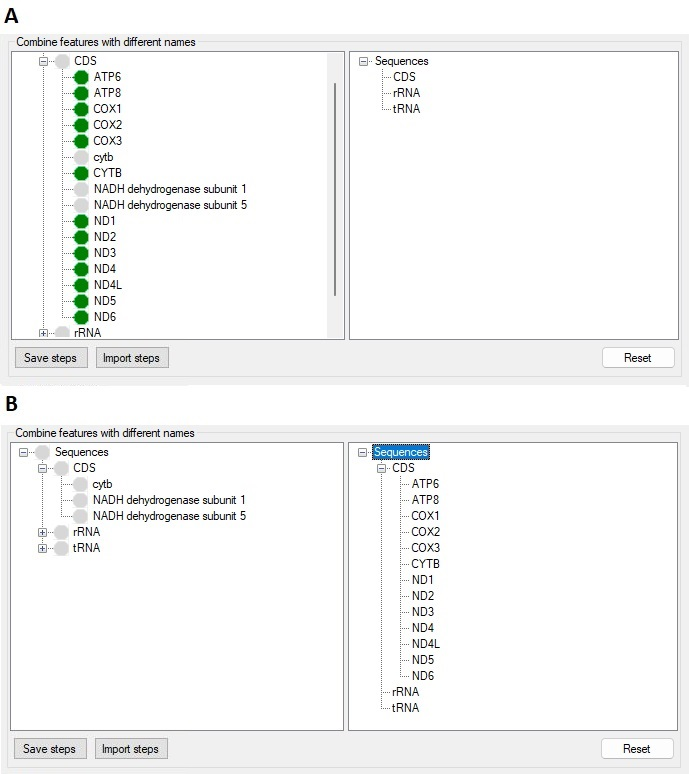
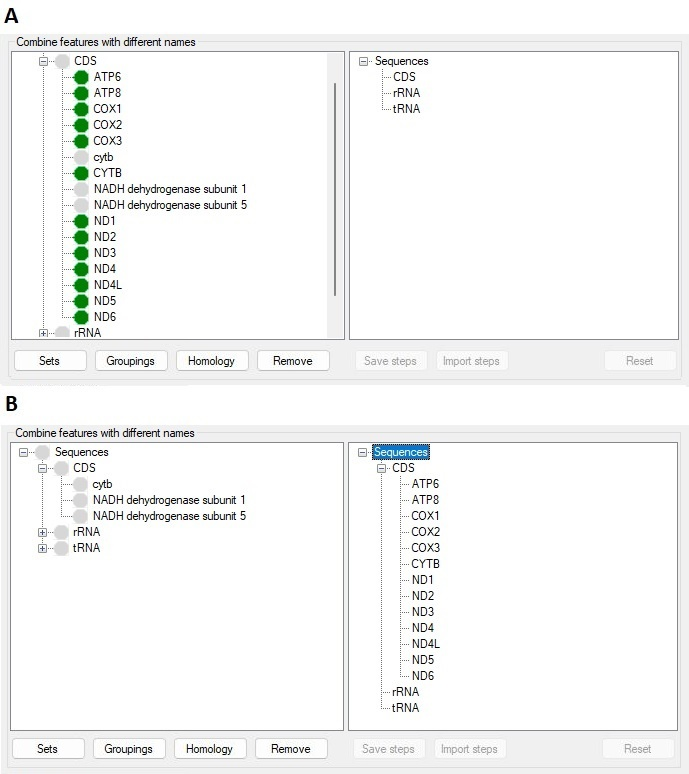
Updating

diff --git a/GeneMatrix/Form1.Designer.cs b/GeneMatrix/Form1.Designer.cs
@@ -72,6 +72,7 @@
             this.label6 = new System.Windows.Forms.Label();
             this.label5 = new System.Windows.Forms.Label();
             this.btnMakePartitionFinderFiles = new System.Windows.Forms.Button();
+            this.btnRemove = new System.Windows.Forms.Button();
             this.groupBox1.SuspendLayout();
             this.groupBox2.SuspendLayout();
             ((System.ComponentModel.ISupportInitialize)(this.splitContainer1)).BeginInit();
@@ -157,12 +158,6 @@
             this.groupBox2.Anchor = ((System.Windows.Forms.AnchorStyles)((((System.Windows.Forms.AnchorStyles.Top | System.Windows.Forms.AnchorStyles.Bottom) 
             | System.Windows.Forms.AnchorStyles.Left) 
             | System.Windows.Forms.AnchorStyles.Right)));
-            this.groupBox2.Controls.Add(this.btnGroup);
-            this.groupBox2.Controls.Add(this.btnBasicData);
-            this.groupBox2.Controls.Add(this.btnCompare);
-            this.groupBox2.Controls.Add(this.btnImportSteps);
-            this.groupBox2.Controls.Add(this.btnSaveSteps);
-            this.groupBox2.Controls.Add(this.btnReset);
             this.groupBox2.Controls.Add(this.splitContainer1);
             this.groupBox2.Location = new System.Drawing.Point(12, 110);
             this.groupBox2.Name = "groupBox2";
@@ -174,7 +169,7 @@
             // btnGroup
             // 
             this.btnGroup.Anchor = ((System.Windows.Forms.AnchorStyles)((System.Windows.Forms.AnchorStyles.Bottom | System.Windows.Forms.AnchorStyles.Left)));
-            this.btnGroup.Location = new System.Drawing.Point(90, 224);
+            this.btnGroup.Location = new System.Drawing.Point(81, 208);
             this.btnGroup.Name = "btnGroup";
             this.btnGroup.Size = new System.Drawing.Size(75, 23);
             this.btnGroup.TabIndex = 10;
@@ -185,7 +180,7 @@
             // btnBasicData
             // 
             this.btnBasicData.Anchor = ((System.Windows.Forms.AnchorStyles)((System.Windows.Forms.AnchorStyles.Bottom | System.Windows.Forms.AnchorStyles.Left)));
-            this.btnBasicData.Location = new System.Drawing.Point(9, 224);
+            this.btnBasicData.Location = new System.Drawing.Point(0, 208);
             this.btnBasicData.Name = "btnBasicData";
             this.btnBasicData.Size = new System.Drawing.Size(75, 23);
             this.btnBasicData.TabIndex = 9;
@@ -196,7 +191,7 @@
             // btnCompare
             // 
             this.btnCompare.Anchor = ((System.Windows.Forms.AnchorStyles)((System.Windows.Forms.AnchorStyles.Bottom | System.Windows.Forms.AnchorStyles.Left)));
-            this.btnCompare.Location = new System.Drawing.Point(171, 224);
+            this.btnCompare.Location = new System.Drawing.Point(162, 208);
             this.btnCompare.Name = "btnCompare";
             this.btnCompare.Size = new System.Drawing.Size(75, 23);
             this.btnCompare.TabIndex = 8;
@@ -207,7 +202,8 @@
             // btnImportSteps
             // 
             this.btnImportSteps.Anchor = ((System.Windows.Forms.AnchorStyles)((System.Windows.Forms.AnchorStyles.Bottom | System.Windows.Forms.AnchorStyles.Left)));
-            this.btnImportSteps.Location = new System.Drawing.Point(410, 224);
+            this.btnImportSteps.Enabled = false;
+            this.btnImportSteps.Location = new System.Drawing.Point(84, 208);
             this.btnImportSteps.Name = "btnImportSteps";
             this.btnImportSteps.Size = new System.Drawing.Size(75, 23);
             this.btnImportSteps.TabIndex = 7;
@@ -218,7 +214,8 @@
             // btnSaveSteps
             // 
             this.btnSaveSteps.Anchor = ((System.Windows.Forms.AnchorStyles)((System.Windows.Forms.AnchorStyles.Bottom | System.Windows.Forms.AnchorStyles.Left)));
-            this.btnSaveSteps.Location = new System.Drawing.Point(329, 224);
+            this.btnSaveSteps.Enabled = false;
+            this.btnSaveSteps.Location = new System.Drawing.Point(3, 208);
             this.btnSaveSteps.Name = "btnSaveSteps";
             this.btnSaveSteps.Size = new System.Drawing.Size(75, 23);
             this.btnSaveSteps.TabIndex = 6;
@@ -230,7 +227,7 @@
             // 
             this.btnReset.Anchor = ((System.Windows.Forms.AnchorStyles)((System.Windows.Forms.AnchorStyles.Bottom | System.Windows.Forms.AnchorStyles.Right)));
             this.btnReset.Enabled = false;
-            this.btnReset.Location = new System.Drawing.Point(593, 224);
+            this.btnReset.Location = new System.Drawing.Point(263, 208);
             this.btnReset.Name = "btnReset";
             this.btnReset.Size = new System.Drawing.Size(75, 23);
             this.btnReset.TabIndex = 5;
@@ -248,18 +245,27 @@
             // 
             // splitContainer1.Panel1
             // 
+            this.splitContainer1.Panel1.Controls.Add(this.btnRemove);
+            this.splitContainer1.Panel1.Controls.Add(this.btnCompare);
+            this.splitContainer1.Panel1.Controls.Add(this.btnGroup);
             this.splitContainer1.Panel1.Controls.Add(this.tv1);
+            this.splitContainer1.Panel1.Controls.Add(this.btnBasicData);
             // 
             // splitContainer1.Panel2
             // 
+            this.splitContainer1.Panel2.Controls.Add(this.btnReset);
+            this.splitContainer1.Panel2.Controls.Add(this.btnImportSteps);
             this.splitContainer1.Panel2.Controls.Add(this.tv2);
-            this.splitContainer1.Size = new System.Drawing.Size(668, 202);
-            this.splitContainer1.SplitterDistance = 322;
+            this.splitContainer1.Panel2.Controls.Add(this.btnSaveSteps);
+            this.splitContainer1.Size = new System.Drawing.Size(668, 234);
+            this.splitContainer1.SplitterDistance = 323;
             this.splitContainer1.TabIndex = 0;
             // 
             // tv1
             // 
-            this.tv1.Dock = System.Windows.Forms.DockStyle.Fill;
+            this.tv1.Anchor = ((System.Windows.Forms.AnchorStyles)((((System.Windows.Forms.AnchorStyles.Top | System.Windows.Forms.AnchorStyles.Bottom) 
+            | System.Windows.Forms.AnchorStyles.Left) 
+            | System.Windows.Forms.AnchorStyles.Right)));
             this.tv1.Location = new System.Drawing.Point(0, 0);
             this.tv1.Name = "tv1";
             this.tv1.Size = new System.Drawing.Size(322, 202);
@@ -268,7 +274,9 @@
             // 
             // tv2
             // 
-            this.tv2.Dock = System.Windows.Forms.DockStyle.Fill;
+            this.tv2.Anchor = ((System.Windows.Forms.AnchorStyles)((((System.Windows.Forms.AnchorStyles.Top | System.Windows.Forms.AnchorStyles.Bottom) 
+            | System.Windows.Forms.AnchorStyles.Left) 
+            | System.Windows.Forms.AnchorStyles.Right)));
             this.tv2.Location = new System.Drawing.Point(0, 0);
             this.tv2.Name = "tv2";
             this.tv2.Size = new System.Drawing.Size(342, 202);
@@ -338,7 +346,7 @@
             // 
             // btnSave
             // 
-            this.btnSave.Anchor = ((System.Windows.Forms.AnchorStyles)((System.Windows.Forms.AnchorStyles.Bottom | System.Windows.Forms.AnchorStyles.Right)));
+            this.btnSave.Anchor = ((System.Windows.Forms.AnchorStyles)((System.Windows.Forms.AnchorStyles.Bottom | System.Windows.Forms.AnchorStyles.Left)));
             this.btnSave.Enabled = false;
             this.btnSave.Location = new System.Drawing.Point(593, 43);
             this.btnSave.Name = "btnSave";
@@ -416,7 +424,7 @@
             // 
             // btnAll
             // 
-            this.btnAll.Anchor = ((System.Windows.Forms.AnchorStyles)((System.Windows.Forms.AnchorStyles.Bottom | System.Windows.Forms.AnchorStyles.Right)));
+            this.btnAll.Anchor = ((System.Windows.Forms.AnchorStyles)((System.Windows.Forms.AnchorStyles.Bottom | System.Windows.Forms.AnchorStyles.Left)));
             this.btnAll.Location = new System.Drawing.Point(270, 86);
             this.btnAll.Name = "btnAll";
             this.btnAll.Size = new System.Drawing.Size(75, 23);
@@ -427,7 +435,7 @@
             // 
             // btnMAFFT
             // 
-            this.btnMAFFT.Anchor = ((System.Windows.Forms.AnchorStyles)((System.Windows.Forms.AnchorStyles.Bottom | System.Windows.Forms.AnchorStyles.Right)));
+            this.btnMAFFT.Anchor = ((System.Windows.Forms.AnchorStyles)((System.Windows.Forms.AnchorStyles.Bottom | System.Windows.Forms.AnchorStyles.Left)));
             this.btnMAFFT.Location = new System.Drawing.Point(351, 86);
             this.btnMAFFT.Name = "btnMAFFT";
             this.btnMAFFT.Size = new System.Drawing.Size(75, 23);
@@ -438,7 +446,7 @@
             // 
             // btnPrank
             // 
-            this.btnPrank.Anchor = ((System.Windows.Forms.AnchorStyles)((System.Windows.Forms.AnchorStyles.Bottom | System.Windows.Forms.AnchorStyles.Right)));
+            this.btnPrank.Anchor = ((System.Windows.Forms.AnchorStyles)((System.Windows.Forms.AnchorStyles.Bottom | System.Windows.Forms.AnchorStyles.Left)));
             this.btnPrank.Location = new System.Drawing.Point(432, 86);
             this.btnPrank.Name = "btnPrank";
             this.btnPrank.Size = new System.Drawing.Size(75, 23);
@@ -470,7 +478,7 @@
             // 
             // btnMuscle
             // 
-            this.btnMuscle.Anchor = ((System.Windows.Forms.AnchorStyles)((System.Windows.Forms.AnchorStyles.Bottom | System.Windows.Forms.AnchorStyles.Right)));
+            this.btnMuscle.Anchor = ((System.Windows.Forms.AnchorStyles)((System.Windows.Forms.AnchorStyles.Bottom | System.Windows.Forms.AnchorStyles.Left)));
             this.btnMuscle.Location = new System.Drawing.Point(513, 86);
             this.btnMuscle.Name = "btnMuscle";
             this.btnMuscle.Size = new System.Drawing.Size(75, 23);
@@ -508,7 +516,7 @@
             // 
             // btnClustalW
             // 
-            this.btnClustalW.Anchor = ((System.Windows.Forms.AnchorStyles)((System.Windows.Forms.AnchorStyles.Bottom | System.Windows.Forms.AnchorStyles.Right)));
+            this.btnClustalW.Anchor = ((System.Windows.Forms.AnchorStyles)((System.Windows.Forms.AnchorStyles.Bottom | System.Windows.Forms.AnchorStyles.Left)));
             this.btnClustalW.Location = new System.Drawing.Point(593, 86);
             this.btnClustalW.Name = "btnClustalW";
             this.btnClustalW.Size = new System.Drawing.Size(75, 23);
@@ -579,6 +587,17 @@
             this.btnMakePartitionFinderFiles.Text = "Make";
             this.btnMakePartitionFinderFiles.UseVisualStyleBackColor = true;
             this.btnMakePartitionFinderFiles.Click += new System.EventHandler(this.btnMakePartitionFinderFiles_Click);
+            // 
+            // btnRemove
+            // 
+            this.btnRemove.Anchor = ((System.Windows.Forms.AnchorStyles)((System.Windows.Forms.AnchorStyles.Bottom | System.Windows.Forms.AnchorStyles.Left)));
+            this.btnRemove.Location = new System.Drawing.Point(243, 208);
+            this.btnRemove.Name = "btnRemove";
+            this.btnRemove.Size = new System.Drawing.Size(75, 23);
+            this.btnRemove.TabIndex = 11;
+            this.btnRemove.Text = "Remove";
+            this.btnRemove.UseVisualStyleBackColor = true;
+            this.btnRemove.Click += new System.EventHandler(this.btnRemove_Click);
             // 
             // Form1
             // 
@@ -659,6 +678,7 @@
         private System.Windows.Forms.Button btnCompare;
         private System.Windows.Forms.Button btnBasicData;
         private System.Windows.Forms.Button btnGroup;
+        private System.Windows.Forms.Button btnRemove;
     }
 }
 

diff --git a/GeneMatrix/comparison.cs b/GeneMatrix/comparison.cs
@@ -104,11 +104,11 @@ namespace GeneMatrix
 
         private void makeMinimumComparisonSet(Dictionary<string, List<string>> minimumSetDuplicates, int[,] scores, string fileName, Dictionary<string, List<string>> duplicates)
         {
-            Dictionary<string,int> nameIindex = new Dictionary<string,int>();
+            Dictionary<string,int> nameIndex = new Dictionary<string,int>();
             int index = 0;
             foreach (string key in sequences.Keys)
             {
-                nameIindex.Add(key, index);
+                nameIndex.Add(key, index);
                 index++;
             }          
 
@@ -118,9 +118,9 @@ namespace GeneMatrix
                 foreach(string key in name)
                 {
                     int bracket = key.IndexOf("(");
-                    string thiskey = key.Substring(0, bracket - 1);
-                    if (nameIindex.ContainsKey(thiskey)==true)
-                    { nameIindex.Remove(thiskey); }
+                    string thisKey = key.Substring(0, bracket - 1);
+                    if (nameIndex.ContainsKey(thisKey)==true)
+                    { nameIndex.Remove(thisKey); }
                 }
             }           
 
@@ -131,7 +131,7 @@ namespace GeneMatrix
                 sw = new System.IO.StreamWriter(fileName, true);
                 sw.Write("\n\nMinimum sequence set\n");
 
-                foreach (string key in nameIindex.Keys)
+                foreach (string key in nameIndex.Keys)
                 { sw.Write("\t" + key); }
                 sw.Write("\n");
 
@@ -139,17 +139,17 @@ namespace GeneMatrix
                 foreach (string key in duplicates.Keys)
                 {
                     int bracket = key.IndexOf("(");
-                    string thiskey = key.Substring(0, bracket - 1);
-                    duplicateCleanKeys.Add(thiskey, duplicates[key]);
+                    string thisKey = key.Substring(0, bracket - 1);
+                    duplicateCleanKeys.Add(thisKey, duplicates[key]);
                 }
 
-                foreach (string outerKey in nameIindex.Keys)
+                foreach (string outerKey in nameIndex.Keys)
                 {
                     sw.Write(outerKey);
-                    foreach (string innerkey in nameIindex.Keys)
+                    foreach (string innerKey in nameIndex.Keys)
                     {
-                        sw.Write("\t" + scores[nameIindex[outerKey], nameIindex[innerkey]].ToString("N0"));
-                        if (outerKey == innerkey)
+                        sw.Write("\t" + scores[nameIndex[outerKey], nameIndex[innerKey]].ToString("N0"));
+                        if (outerKey == innerKey)
                         { sw.Write("*"); }
                     }
                     if (duplicateCleanKeys.ContainsKey(outerKey) == true)
@@ -201,7 +201,7 @@ namespace GeneMatrix
                 
 
                 sw.Write("\n\nSize range\nMedian length\t" + median.ToString("N1") +
-                   "Size range\t" + sizes[0].ToString() + "\t" + sizes[sizes.GetUpperBound(0)] + "\n");
+                   "\tSize range\t" + sizes[0].ToString() + "\t" + sizes[sizes.GetUpperBound(0)] + "\n");
 
                 sw.Write("Sequence\tLength\tDifference from median length\tPercent of median length\n");
                 foreach(string key in sequences.Keys)

diff --git a/GeneMatrix/Form1.cs b/GeneMatrix/Form1.cs
@@ -76,6 +76,9 @@ namespace GeneMatrix
         private void btnImport_Click(object sender, EventArgs e)
         {
             btnReset.Enabled = false;
+            btnSaveSteps.Enabled = false;
+            btnImportSteps.Enabled = false;
+
             string empty = "";
 
             if (chkFolder.Checked == true)
@@ -152,6 +155,8 @@ namespace GeneMatrix
             {
                 populateLists();
                 btnReset.Enabled = true;
+                btnImportSteps.Enabled = true;
+                btnSaveSteps.Enabled = true;
             }
 
             if (string.IsNullOrEmpty(empty) == true)
@@ -1836,6 +1841,7 @@ namespace GeneMatrix
 
         private void btnSaveSteps_Click(object sender, EventArgs e)
         {
+            if (btnReset.Enabled == false) { return; }
             List<string> steps = new List<string>();
 
             foreach (TreeNode pn in tv2.Nodes[0].Nodes)
@@ -1880,6 +1886,8 @@ namespace GeneMatrix
 
         private void btnImportSteps_Click(object sender, EventArgs e)
         {
+            if (btnReset.Enabled == false) { return; }
+
             string file = FileAccessClass.FileString(FileAccessClass.FileJob.Open, "Select the file containing the amalgamations steps", "Text file (*.txt)|*.txt");
             if (System.IO.File.Exists(file)== false) { return; }
 
@@ -2521,5 +2529,30 @@ namespace GeneMatrix
             return groups;
         }
 
+        private void btnRemove_Click(object sender, EventArgs e)
+        {
+            string file = FileAccessClass.FileString(FileAccessClass.FileJob.Open, "Select file of accession IDs to remove", "Text file (*.txt)|*.txt");
+            if (System.IO.File.Exists(file) == false) { return; }
+
+            System.IO.StreamReader sf = null;
+
+            try 
+            { 
+            sf =new System.IO.StreamReader(file);
+                string line = "";
+                while(sf.Peek() > 0)
+                {
+                    line = sf.ReadLine().Replace(",","").Trim();
+                    if (data.ContainsKey(line) == true)
+                    {
+                        data.Remove(line);
+                    }
+                }
+                populateLists();
+            }
+            catch(Exception ex) { MessageBox.Show("Could not process file: " + ex.Message, "Error"); }
+            finally { if (sf != null) { sf.Close(); }; }
+
+        }
     }
 }
